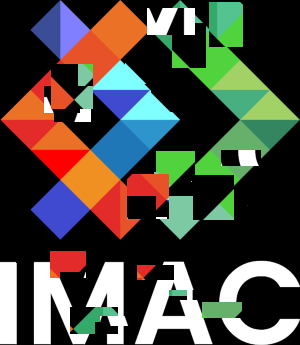
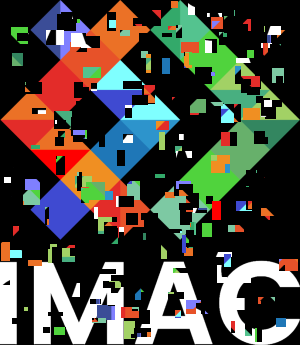
correction_exo_readme_effet bonus

diff --git a/src/main.cpp b/src/main.cpp
@@ -3,11 +3,41 @@
 #include <cmath>
 #include <complex>
 
+sil::Image box_blur(sil::Image const& image, int kernel_size)   
+{
+    sil::Image result{image.width(), image.height()};
+    int half = kernel_size / 2;
+    
+    for (int y = 0; y < image.height(); y++) {
+        for (int x = 0; x < image.width(); x++) {
+            glm::vec3 sum{0.f};
+            int count = 0;
+            for (int dy = -half; dy <= half; dy++) {
+                for (int dx = -half; dx <= half; dx++) {
+                    int nx = x + dx;
+                    int ny = y + dy;
+
+                    if (nx >= 0 && nx < image.width() && ny >= 0 && ny < image.height()) {
+                        sum += image.pixel(nx, ny);
+                        count++;
+                    }
+                }
+            }
+            result.pixel(x, y) = sum / static_cast<float>(count);
+        }
+    }
+    
+    return result;
+}
+
+
 int main()
 {
-    // sil::Image image{"images/logo.png"};
+    sil::Image image{"images/logo.png"};
+    // sil::Image image{"images/photo.jpg"};
+    // sil::Image image{"images/photo_faible_contraste.png"};
 
-//je garde le debut dans 90% des cas.
+
 ////////////////////////////////////////////////////////
 
     //Tout en vert
@@ -80,13 +110,17 @@ int main()
 
 
 //rotation 90
-    // sil::Image new_image{image.width(), image.height()};
-    // int total_pixels = image.width() * image.height();
-    // for (int i = 0; i < total_pixels / 2; i++) {
-    //     std::swap(image.pixels()[i], image.pixels()[total_pixels - 1 - i]);
-    // }
-    // new_image.save("output/rotation_90.png");
-    // }
+//     sil::Image new_image{image.height(), image.width()};
+
+//     for (int x = 0; x < image.width(); x++)
+//     {
+//         for (int y = 0; y < image.height(); y++)
+//         {
+//             new_image.pixel(image.height() - 1 - y, x) = image.pixel(x, y);
+//         }
+//     }
+//     new_image.save("output/rotation_90.png");
+// }
 
 
 //RGB SPLIT
@@ -226,11 +260,11 @@ int main()
 
 
 //glitch
-//     int nb_glitches = 100; 
+    // int nb_glitches = 100; 
     
 //     for (int i = 0; i < nb_glitches; i++) {
-//         int rect_width = random_int(30, 10);
-//         int rect_height = random_int(30, 10);
+//         int rect_width = random_int(4, 20);
+//         int rect_height = random_int(4, 20);
         
 //         int x1 = random_int(0, image.width() - rect_width);
 //         int y1 = random_int(0, image.height() - rect_height);
@@ -238,6 +272,7 @@ int main()
 //         int x2 = random_int(0, image.width() - rect_width);
 //         int y2 = random_int(0, image.height() - rect_height);
         
+
 //         for (int dy = 0; dy < rect_height; dy++) {
 //             for (int dx = 0; dx < rect_width; dx++) {
 //                 std::swap(
@@ -247,7 +282,61 @@ int main()
 //             }
 //         }
 //     }
+    
 //     image.save("output/glitch.png");
 // }
 
 //Fractale de Mandelbrot
+//     sil::Image image{500, 500};
+//     int max_iterations = 100;
+
+//     for (int x = 0; x < image.width(); x++)
+//     {
+//         for (int y = 0; y < image.height(); y++)
+//         {
+//             float real = (x / static_cast<float>(image.width())) * 3.5f - 2.5f;
+//             float imag = (y / static_cast<float>(image.height())) * 2.0f - 1.0f;
+
+//             std::complex<float> c{real, imag};
+            
+//             std::complex<float> z{0.f, 0.f};
+//             int iterations = 0;
+            
+//             while (std::abs(z) <= 2.0f && iterations < max_iterations)
+//             {
+//                 z = z * z + c;
+//                 iterations++;
+//             }
+//             float color;
+//             if (iterations == max_iterations)
+//             {
+
+//                 color = 1.0f;
+//             }
+//             else
+//             {
+
+//                 color = iterations / static_cast<float>(max_iterations);
+//             }
+//             image.pixel(x, y).r=color;
+//             image.pixel(x, y).g=color;
+//             image.pixel(x, y).b=color;
+//         }
+//     }
+//     image.save("output/mandelbrot.png");
+// }
+
+
+//J'ai voulu faire un truc mais ça a donné un autre effet et en vrai j'aime un peu donc je veux pas supprimer 
+//     sil::Image blur_small = box_blur(image, 0);
+//     sil::Image blur_large = box_blur(image, 50);
+//     sil::Image result{image.width(), image.height()};
+
+//     for (int y = 0; y < image.height(); y++) {
+//         for (int x = 0; x < image.width(); x++) {
+//             glm::vec3 diff = blur_small.pixel(x, y) - blur_large.pixel(x, y);
+//             result.pixel(x, y) = diff + glm::vec3{0.5f};
+//         }
+//     }
+//     result.save("output/difference_gaussienne.png");
+// }

diff --git a/README.md b/README.md
@@ -1,3 +1,44 @@
 # 🐣 S1 | Prog: Workshop
 
 Super projet d'Elouan ! Vous trouverez le sujet d'origine ici: https://dsmte.github.io/Learn--cpp_programming/Workshop
+
+### Listes des exercices réalisés !
+- Ne garder que le vert
+  ![image](./output/vert.png)
+- échanger des canaux
+    ![image](./output/canaux.png)
+- Noir et blanc
+    ![image](./output/logo_nb.png)
+- Negatif
+    ![image](./output/logo_negatif.png)
+- Miroir
+   ![image](./output/miroir.png)
+- Image Bruitée
+    ![image](./output/logo_noize.png)
+- Rotation de 90
+  ![image](./output/rotation_90.png)
+- RGB Split
+  ![image](./output/logo_rgb_split.png)
+- Disque
+  ![image](./output/disque.png)
+- Cercle
+  ![image](./output/cercle.png)
+- Rosace
+  ![image](./output/rosace.png)
+- Mosaique
+  ![image](./output/mosaique.png)
+- Mosaique Miroir
+  ![image](./output/mosaique_m.png)
+- Glitch
+    ![image](./output/glitch.png)
+- Fractale de mandelbrot
+    ![image](./output/mandelbrot.png)
+
+<details>
+  <summary>Infos supplémentaires </summary>
+Le workshop a été fait avec 2 doigts en moins.
+</details>
+<details>
+  <summary>Infos supplémentaires </summary>
+bisous.
+</details>
